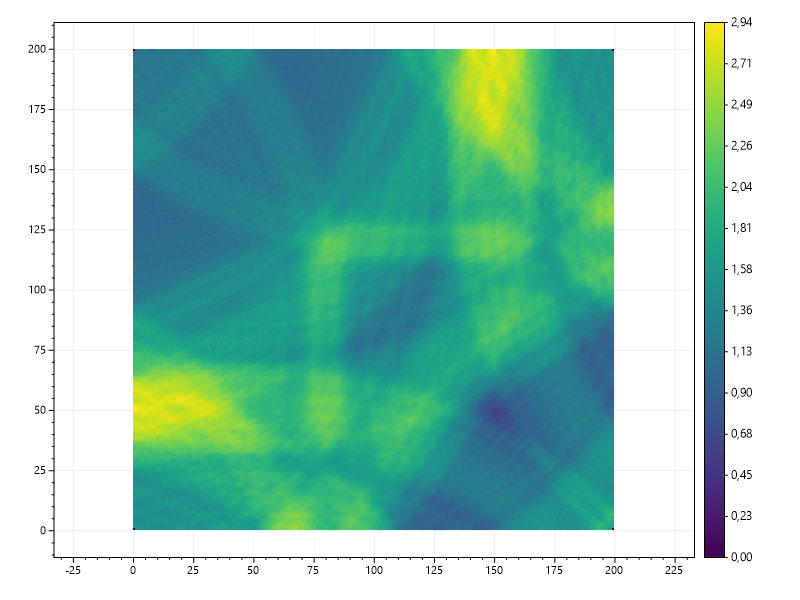
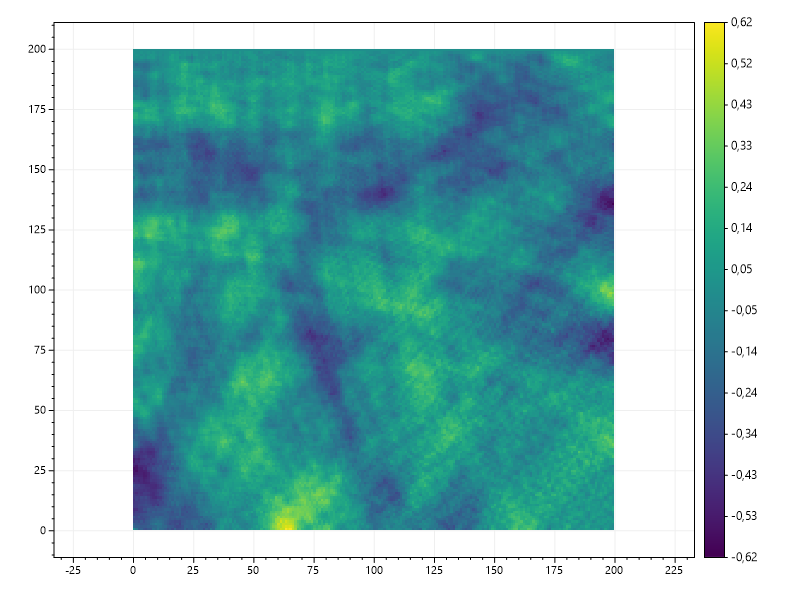
fix method

diff --git a/elementCalc.cs b/elementCalc.cs
@@ -16,22 +16,14 @@ namespace CSsolve
             var u = new double[N, N, T];
             var x = Generate.LinearSpaced(N, 0, sideSize);
             var y = Generate.LinearSpaced(N, 0, sideSize);
-            Parallel.For(1, N - 1, (i) =>
+            Parallel.For(0, N, (i) =>
               {
-                  for (int j = 1; j < N - 1; ++j)
+                  for (int j = 0; j < N; ++j)
                   {
                       u[i, j, 0] = calc(x[i], y[j]);
-                      u[i, j, 1] = u[i, j, 0] + tArg * tArg / (2 * hArg * hArg) *
-                      (u[i + 1, j, 0] + u[i - 1, j, 0] + u[i, j - 1, 0] - 4 * u[i, j, 1]);
+                      u[i, j, 1] = (1 - tArg * tArg / 2) * u[i, j, 0];
                   }
-                  u[i, 0, 1] = 4 / 3 * u[i, 1, 1] - 1 / 3 * u[i, 2, 1];
-                  u[i, N - 1, 1] = 4 / 3 * u[i, N - 2, 1] - 1 / 3 * u[i, N - 3, 1];
               });
-            Parallel.For(1, N - 1, (j) =>
-                  {
-                      u[0, j, 1] = 4 / 3 * u[1, j, 1] - 1 / 3 * u[2, j, 1];
-                      u[N - 1, j, 1] = 4 / 3 * u[N - 2, j, 1] - 1 / 3 * u[N - 3, j, 1];
-                  });
             return parallelCrossWithBound(u, N, T, tArg, hArg);
 
         }
@@ -104,13 +96,17 @@ namespace CSsolve
                           u[i, j, k] = tArg * tArg / (hArg * hArg) * (u[i + 1, j, k - 1] + u[i, j + 1, k - 1] - 4 * u[i, j, k - 1] + u[i - 1, j, k - 1] + u[i, j - 1, k - 1])
                               + 2 * u[i, j, k - 1] - u[i, j, k - 2];
                       }
-                      u[i, 0, k] = 4 / 3 * u[i, 1, k] - 1 / 3 * u[i, 2, k];
-                      u[i, N - 1, k] = 4 / 3 * u[i, N - 2, k] - 1 / 3 * u[i, N - 3, k];
+                      u[i, 0, k] = tArg * tArg / (hArg * hArg) * (u[i + 1, 0, k - 1] - 4 * u[i, 0, k - 1] + u[i - 1, 0, k - 1] + 2 * u[i, 1, k - 1])
+                      + 2 * u[i, 0, k - 1] - u[i, 0, k - 2];
+                      u[i, N - 1, k] = tArg * tArg / (hArg * hArg) * (u[i + 1, N - 1, k - 1] - 4 * u[i, N - 1, k - 1] + u[i - 1, N - 1, k - 1] + 2 * u[i, N - 2, k - 1])
+                      + 2 * u[i, N - 1, k - 1] - u[i, N - 1, k - 2];
                   });
                 Parallel.For(1, N - 1, (j) =>
                   {
-                      u[0, j, k] = 4 / 3 * u[1, j, k] - 1 / 3 * u[2, j, k];
-                      u[N - 1, j, k] = 4 / 3 * u[N - 2, j, k] - 1 / 3 * u[N - 3, j, k];
+                      u[0, j, k] = tArg * tArg / (hArg * hArg) * (u[0, j + 1, k - 1] - 4 * u[0, j, k - 1] + u[0, j - 1, k - 1] + 2 * u[0, j, k - 1])
+                      + 2 * u[0, j, k - 1] - u[0, j, k - 2];
+                      u[N - 1, j, k] = tArg * tArg / (hArg * hArg) * (u[N - 1, j + 1, k - 1] - 4 * u[N - 1, j, k - 1] + u[N - 1, j - 1, k - 1] + 2 * u[N - 2, j, k - 1])
+                      + 2 * u[N - 1, j, k - 1] - u[N - 1, j, k - 2];
                   });
             }
             return u;

diff --git a/Program.cs b/Program.cs
@@ -10,7 +10,7 @@ namespace CSsolve
             // инициализация начальных условий
             double x0 = 0.5, y0 = 0.5, r0 = 0.2;
             double x1 = 1.2, y1 = 1.2, r1 = 0.1;
-            double hArg = 0.01, tArg = 0.002, timeValue = 2, sideSize = 2;
+            double hArg = 0.01, tArg = 0.002, timeValue = 4, sideSize = 2;
             //Функция Хевисайда
             Func<double, double, double> beginFunc = (x, y) =>
             {
